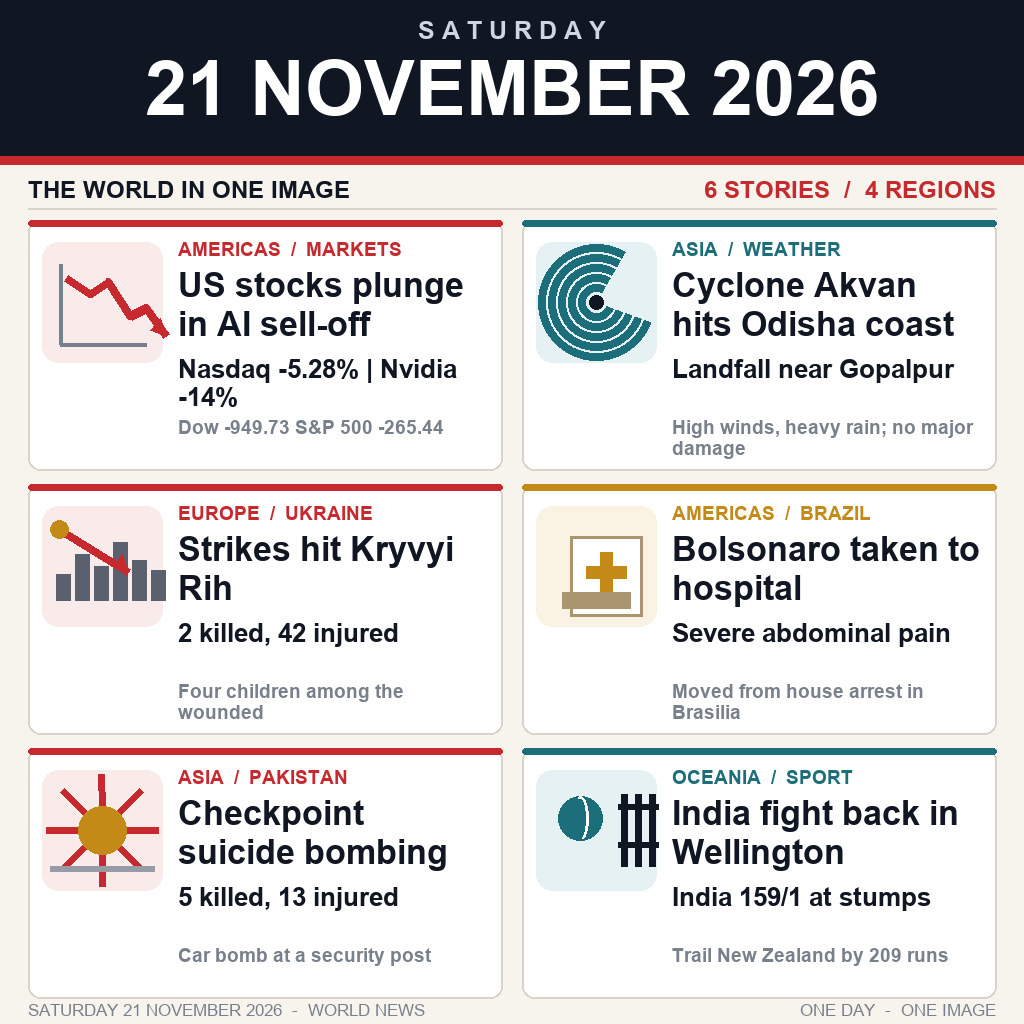
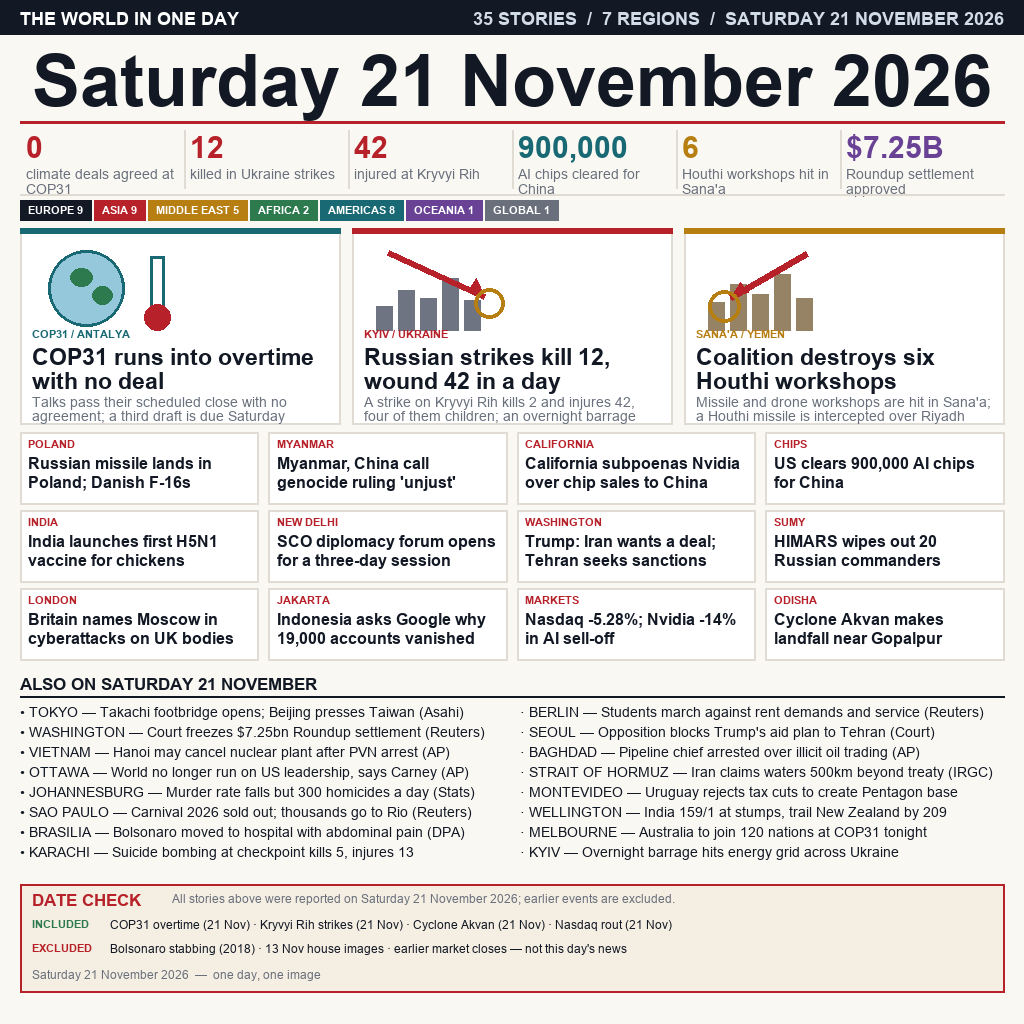
Broader 35-story front page for 21 November 2026

diff --git a/tools/draw_v2.py b/tools/draw_v2.py
@@ -1,0 +1,192 @@
+#!/usr/bin/env python3
+"""Second, broader front page for Saturday 21 November 2026.
+
+Dense editorial layout: lead statistics, three featured stories, a grid of
+smaller stories, a wire list and a date check. All copy is written here.
+"""
+from PIL import Image, ImageDraw, ImageFont
+
+W = H = 1024
+FONT_DIR = "C:/Windows/Fonts/"
+def f(n, s): return ImageFont.truetype(FONT_DIR + n, s)
+
+INK = (18, 24, 36)
+PAPER = (250, 248, 243)
+RED = (183, 34, 42)
+TEAL = (24, 105, 116)
+GOLD = (183, 126, 18)
+PURPLE = (105, 66, 150)
+GREEN = (44, 122, 78)
+GREY = (105, 112, 124)
+LIGHT = (224, 220, 211)
+WHITE = (255, 255, 255)
+
+TITLE = f("arialbd.ttf", 72)
+KICK = f("arialbd.ttf", 18)
+STAT = f("arialbd.ttf", 30)
+STATCAP = f("arial.ttf", 14)
+FEAT = f("arialbd.ttf", 23)
+BODY = f("arial.ttf", 14)
+MED = f("arialbd.ttf", 16)
+TAG = f("arialbd.ttf", 11)
+WIRE = f("arial.ttf", 14)
+SECT = f("arialbd.ttf", 17)
+SMALL = f("arial.ttf", 12)
+
+im = Image.new("RGB", (W, H), PAPER)
+d = ImageDraw.Draw(im)
+
+def wrap(text, font, maxw):
+    lines, cur = [], ""
+    for word in text.split():
+        t = (cur + " " + word).strip()
+        if d.textlength(t, font=font) <= maxw: cur = t
+        else:
+            if cur: lines.append(cur)
+            cur = word
+    if cur: lines.append(cur)
+    return lines
+
+def put_lines(text, font, x, y, maxw, maxlines, fill, lh):
+    for i, line in enumerate(wrap(text, font, maxw)[:maxlines]):
+        d.text((x, y + i * lh), line, font=font, fill=fill)
+
+# masthead
+d.rectangle([0, 0, W, 34], fill=INK)
+d.text((20, 8), "THE WORLD IN ONE DAY", font=KICK, fill=WHITE)
+d.text((W - 20, 8), "35 STORIES  /  7 REGIONS  /  SATURDAY 21 NOVEMBER 2026", font=KICK, fill=(210, 220, 232), anchor="ra")
+d.text((W // 2, 40), "Saturday 21 November 2026", font=TITLE, fill=INK, anchor="ma")
+d.line([20, 122, W - 20, 122], fill=RED, width=3)
+
+# lead statistics
+STATS = [
+    ("0", "climate deals agreed at COP31", RED),
+    ("12", "killed in Ukraine strikes", RED),
+    ("42", "injured at Kryvyi Rih", RED),
+    ("900,000", "AI chips cleared for China", TEAL),
+    ("6", "Houthi workshops hit in Sana'a", GOLD),
+    ("$7.25B", "Roundup settlement approved", PURPLE),
+]
+cw = (W - 40) / 6
+for i, (num, cap, col) in enumerate(STATS):
+    x = 20 + i * cw
+    d.text((x + 6, 130), num, font=STAT, fill=col)
+    put_lines(cap, STATCAP, x + 6, 166, cw - 14, 2, GREY, 15)
+    if i: d.line([x, 130, x, 188], fill=LIGHT, width=2)
+d.line([20, 194, W - 20, 194], fill=LIGHT, width=2)
+
+# region bar
+REGIONS = [("EUROPE 9", INK), ("ASIA 9", RED), ("MIDDLE EAST 5", GOLD),
+           ("AFRICA 2", GREEN), ("AMERICAS 8", TEAL), ("OCEANIA 1", PURPLE), ("GLOBAL 1", GREY)]
+x = 20
+for label, col in REGIONS:
+    width = d.textlength(label, font=TAG) + 16
+    d.rectangle([x, 200, x + width, 220], fill=col)
+    d.text((x + 8, 204), label, font=TAG, fill=WHITE)
+    x += width + 3
+
+# featured stories
+FEATURES = [
+    dict(col=TEAL, tag="COP31 / ANTALYA", head="COP31 runs into overtime with no deal",
+         body="Talks pass their scheduled close with no agreement; a third draft is due Saturday morning. Activists call it the worst COP ever.",
+         icon="cop"),
+    dict(col=RED, tag="KYIV / UKRAINE", head="Russian strikes kill 12, wound 42 in a day",
+         body="A strike on Kryvyi Rih kills 2 and injures 42, four of them children; an overnight barrage hits sites across the country.",
+         icon="war"),
+    dict(col=GOLD, tag="SANA'A / YEMEN", head="Coalition destroys six Houthi workshops",
+         body="Missile and drone workshops are hit in Sana'a; a Houthi missile is intercepted over Riyadh and falls on the city.",
+         icon="houthi"),
+]
+FW = (W - 40 - 24) / 3
+def feat_icon(kind, x, y, col):
+    if kind == "cop":
+        d.ellipse([x + 16, y + 10, x + 92, y + 86], fill=(150, 200, 220), outline=col, width=3)
+        d.ellipse([x + 38, y + 28, x + 60, y + 46], fill=GREEN)
+        d.ellipse([x + 60, y + 46, x + 80, y + 64], fill=GREEN)
+        d.rectangle([x + 118, y + 16, x + 132, y + 72], fill=WHITE, outline=col, width=3)
+        d.ellipse([x + 112, y + 64, x + 138, y + 90], fill=RED)
+    elif kind == "war":
+        for i, h in enumerate((24, 40, 32, 52, 30)):
+            d.rectangle([x + 12 + i * 22, y + 90 - h, x + 28 + i * 22, y + 90], fill=(110, 116, 130))
+        d.line([x + 24, y + 12, x + 120, y + 56], fill=RED, width=6)
+        d.polygon([(x + 120, y + 56), (x + 104, y + 50), (x + 112, y + 38)], fill=RED)
+        d.ellipse([x + 110, y + 48, x + 140, y + 78], outline=GOLD, width=4)
+    else:
+        for i, h in enumerate((28, 46, 36, 56, 32)):
+            d.rectangle([x + 12 + i * 22, y + 90 - h, x + 28 + i * 22, y + 90], fill=(150, 130, 100))
+        d.line([x + 110, y + 14, x + 34, y + 58], fill=RED, width=6)
+        d.polygon([(x + 34, y + 58), (x + 52, y + 52), (x + 44, y + 42)], fill=RED)
+        d.ellipse([x + 12, y + 50, x + 44, y + 82], outline=GOLD, width=4)
+
+for i, st in enumerate(FEATURES):
+    x = 20 + i * (FW + 12)
+    y = 228
+    d.rectangle([x, y, x + FW, y + 196], fill=WHITE, outline=LIGHT, width=2)
+    d.rectangle([x, y, x + FW, y + 5], fill=st["col"])
+    feat_icon(st["icon"], x + 12, y + 12, st["col"])
+    d.text((x + 12, y + 100), st["tag"], font=TAG, fill=st["col"])
+    put_lines(st["head"], FEAT, x + 12, y + 116, FW - 24, 2, INK, 24)
+    put_lines(st["body"], BODY, x + 12, y + 166, FW - 24, 2, GREY, 14)
+
+# medium story grid
+MEDIA = [
+    ("POLAND", "Russian missile lands in Poland; Danish F-16s scramble"),
+    ("MYANMAR", "Myanmar, China call genocide ruling 'unjust'"),
+    ("CALIFORNIA", "California subpoenas Nvidia over chip sales to China"),
+    ("CHIPS", "US clears 900,000 AI chips for China"),
+    ("INDIA", "India launches first H5N1 vaccine for chickens"),
+    ("NEW DELHI", "SCO diplomacy forum opens for a three-day session"),
+    ("WASHINGTON", "Trump: Iran wants a deal; Tehran seeks sanctions relief"),
+    ("SUMY", "HIMARS wipes out 20 Russian commanders"),
+    ("LONDON", "Britain names Moscow in cyberattacks on UK bodies"),
+    ("JAKARTA", "Indonesia asks Google why 19,000 accounts vanished"),
+    ("MARKETS", "Nasdaq -5.28%; Nvidia -14% in AI sell-off"),
+    ("ODISHA", "Cyclone Akvan makes landfall near Gopalpur"),
+]
+MW = (W - 40 - 30) / 4
+for i, (tag, head) in enumerate(MEDIA):
+    col, row = i % 4, i // 4
+    x = 20 + col * (MW + 10)
+    y = 432 + row * 78
+    d.rectangle([x, y, x + MW, y + 72], fill=WHITE, outline=LIGHT, width=2)
+    d.text((x + 8, y + 6), tag, font=TAG, fill=RED)
+    put_lines(head, MED, x + 8, y + 22, MW - 16, 2, INK, 19)
+
+# wire list
+d.text((20, 674), "ALSO ON SATURDAY 21 NOVEMBER", font=SECT, fill=INK)
+d.line([20, 696, W - 20, 696], fill=INK, width=2)
+WIRE_LIST = [
+    "TOKYO — Takachi footbridge opens; Beijing presses Taiwan (Asahi)",
+    "WASHINGTON — Court freezes $7.25bn Roundup settlement (Reuters)",
+    "VIETNAM — Hanoi may cancel nuclear plant after PVN arrest (AP)",
+    "OTTAWA — World no longer run on US leadership, says Carney (AP)",
+    "JOHANNESBURG — Murder rate falls but 300 homicides a day (Stats)",
+    "SAO PAULO — Carnival 2026 sold out; thousands go to Rio (Reuters)",
+    "BRASILIA — Bolsonaro moved to hospital with abdominal pain (DPA)",
+    "KARACHI — Suicide bombing at checkpoint kills 5, injures 13",
+    "BERLIN — Students march against rent demands and service (Reuters)",
+    "SEOUL — Opposition blocks Trump's aid plan to Tehran (Court)",
+    "BAGHDAD — Pipeline chief arrested over illicit oil trading (AP)",
+    "STRAIT OF HORMUZ — Iran claims waters 500km beyond treaty (IRGC)",
+    "MONTEVIDEO — Uruguay rejects tax cuts to create Pentagon base",
+    "WELLINGTON — India 159/1 at stumps, trail New Zealand by 209",
+    "MELBOURNE — Australia to join 120 nations at COP31 tonight",
+    "KYIV — Overnight barrage hits energy grid across Ukraine",
+]
+for i, line in enumerate(WIRE_LIST):
+    col, row = i // 8, i % 8
+    x = 20 + col * 500
+    d.text((x, 704 + row * 20), ("• " if col == 0 else "· ") + line, font=WIRE, fill=INK)
+
+# date check
+d.rectangle([20, 884, W - 20, 992], fill=(245, 238, 226), outline=RED, width=2)
+d.text((32, 890), "DATE CHECK", font=SECT, fill=RED)
+d.text((172, 892), "All stories above were reported on Saturday 21 November 2026; earlier events are excluded.", font=SMALL, fill=GREY)
+d.text((32, 918), "INCLUDED", font=TAG, fill=GREEN)
+d.text((110, 918), "COP31 overtime (21 Nov) · Kryvyi Rih strikes (21 Nov) · Cyclone Akvan (21 Nov) · Nasdaq rout (21 Nov)", font=SMALL, fill=INK)
+d.text((32, 942), "EXCLUDED", font=TAG, fill=RED)
+d.text((110, 942), "Bolsonaro stabbing (2018) · 13 Nov house images · earlier market closes — not this day's news", font=SMALL, fill=INK)
+d.text((32, 968), "Saturday 21 November 2026  —  one day, one image", font=SMALL, fill=GREY)
+
+im.save("entry.png", optimize=True)
+print("wrote entry.png v2", im.size)
